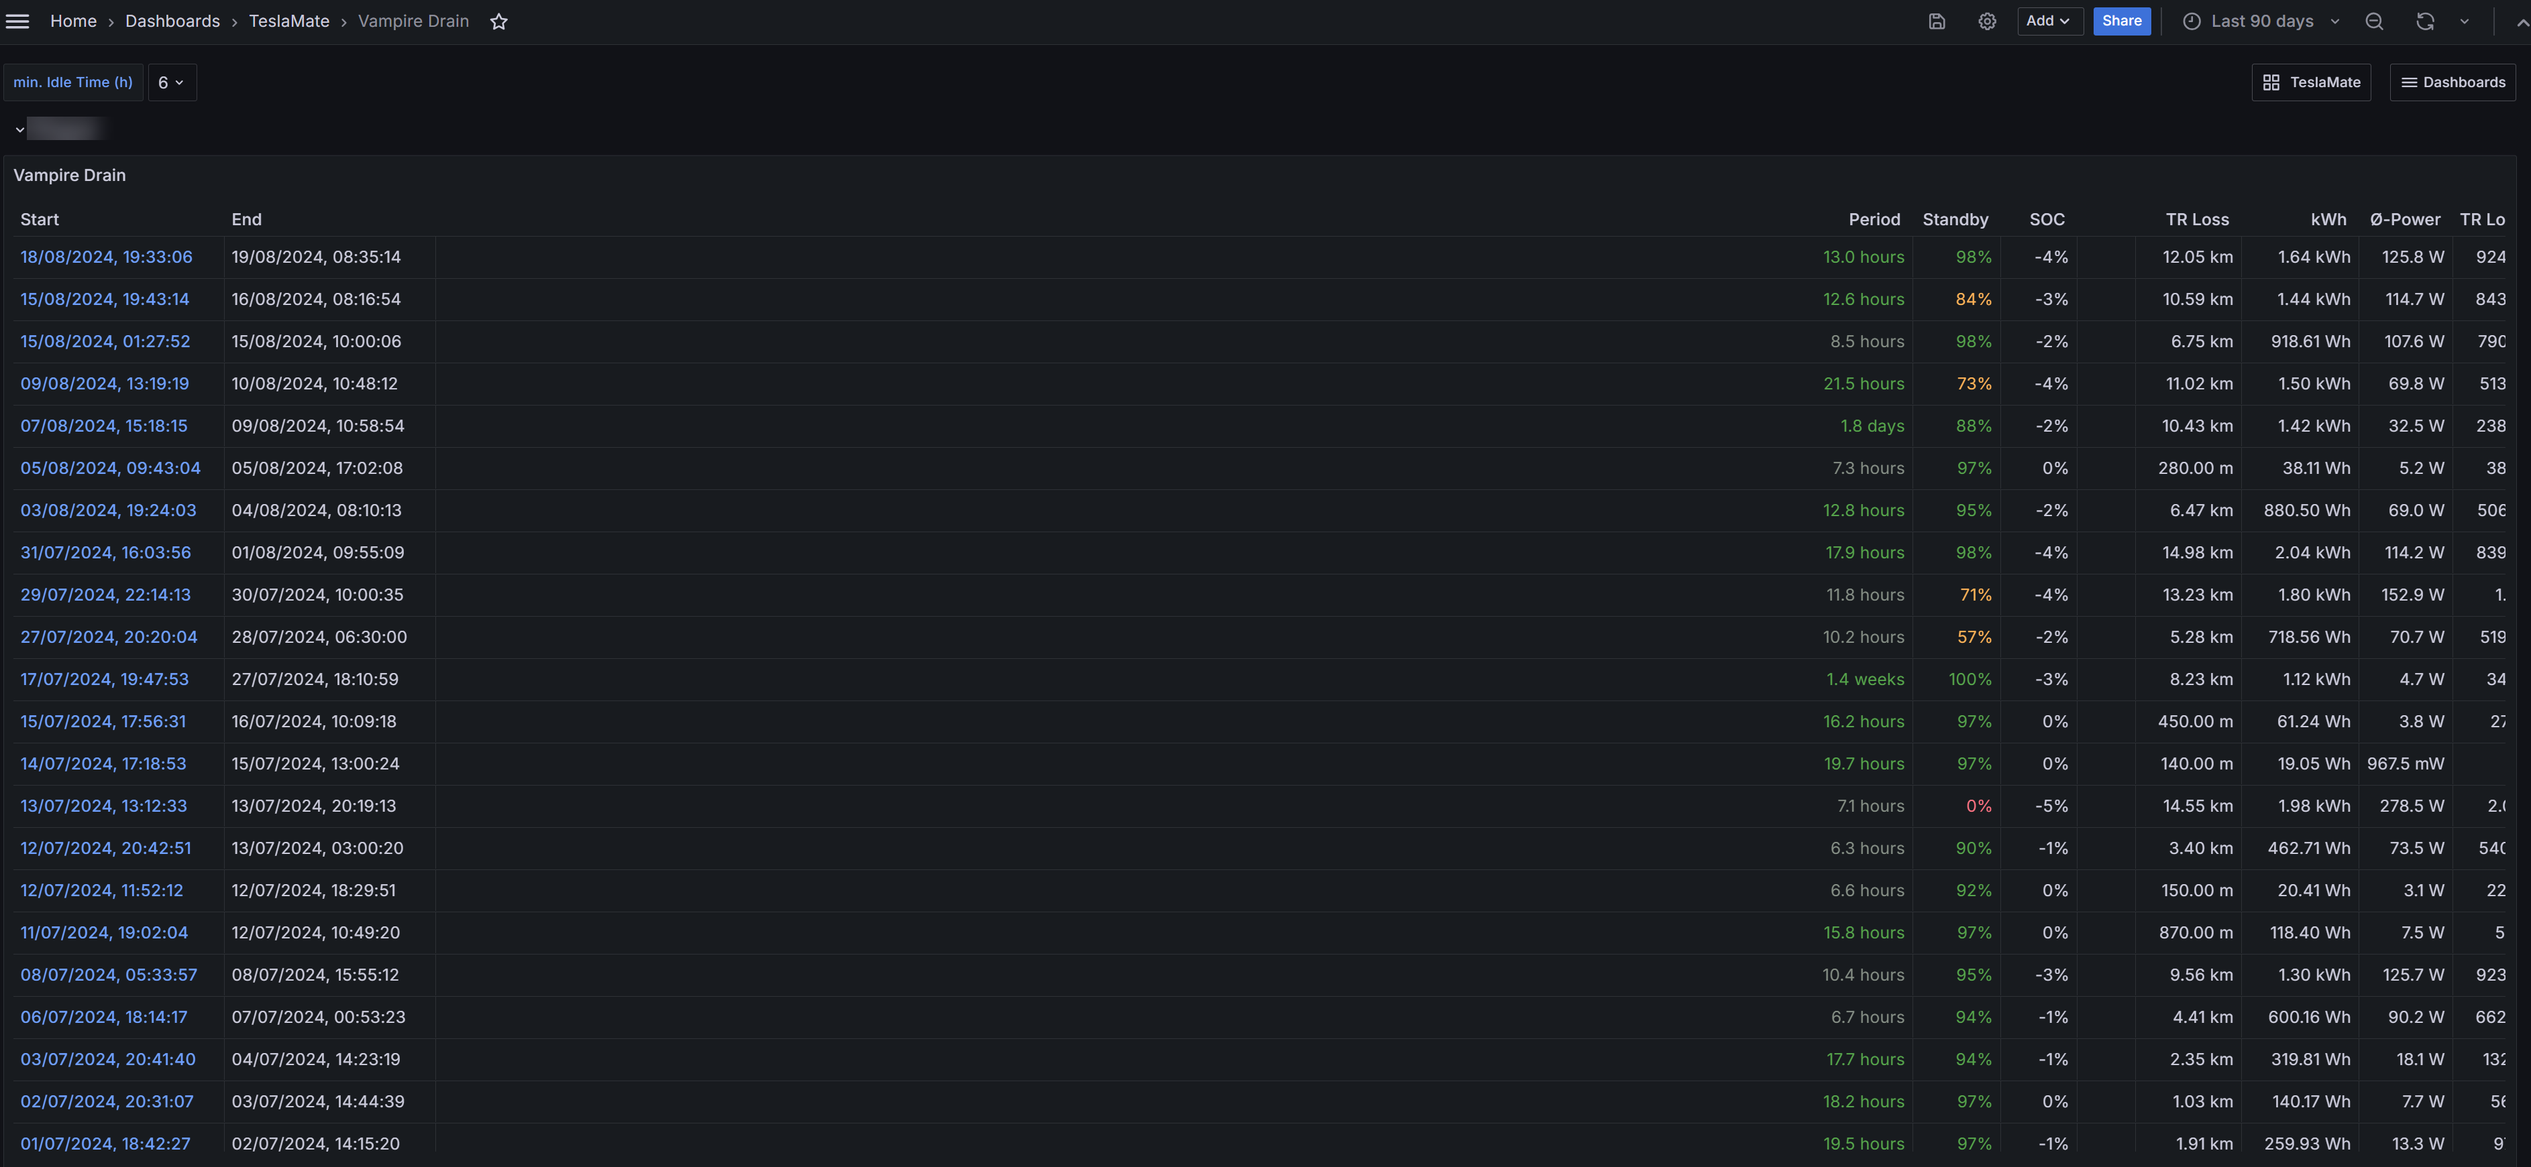
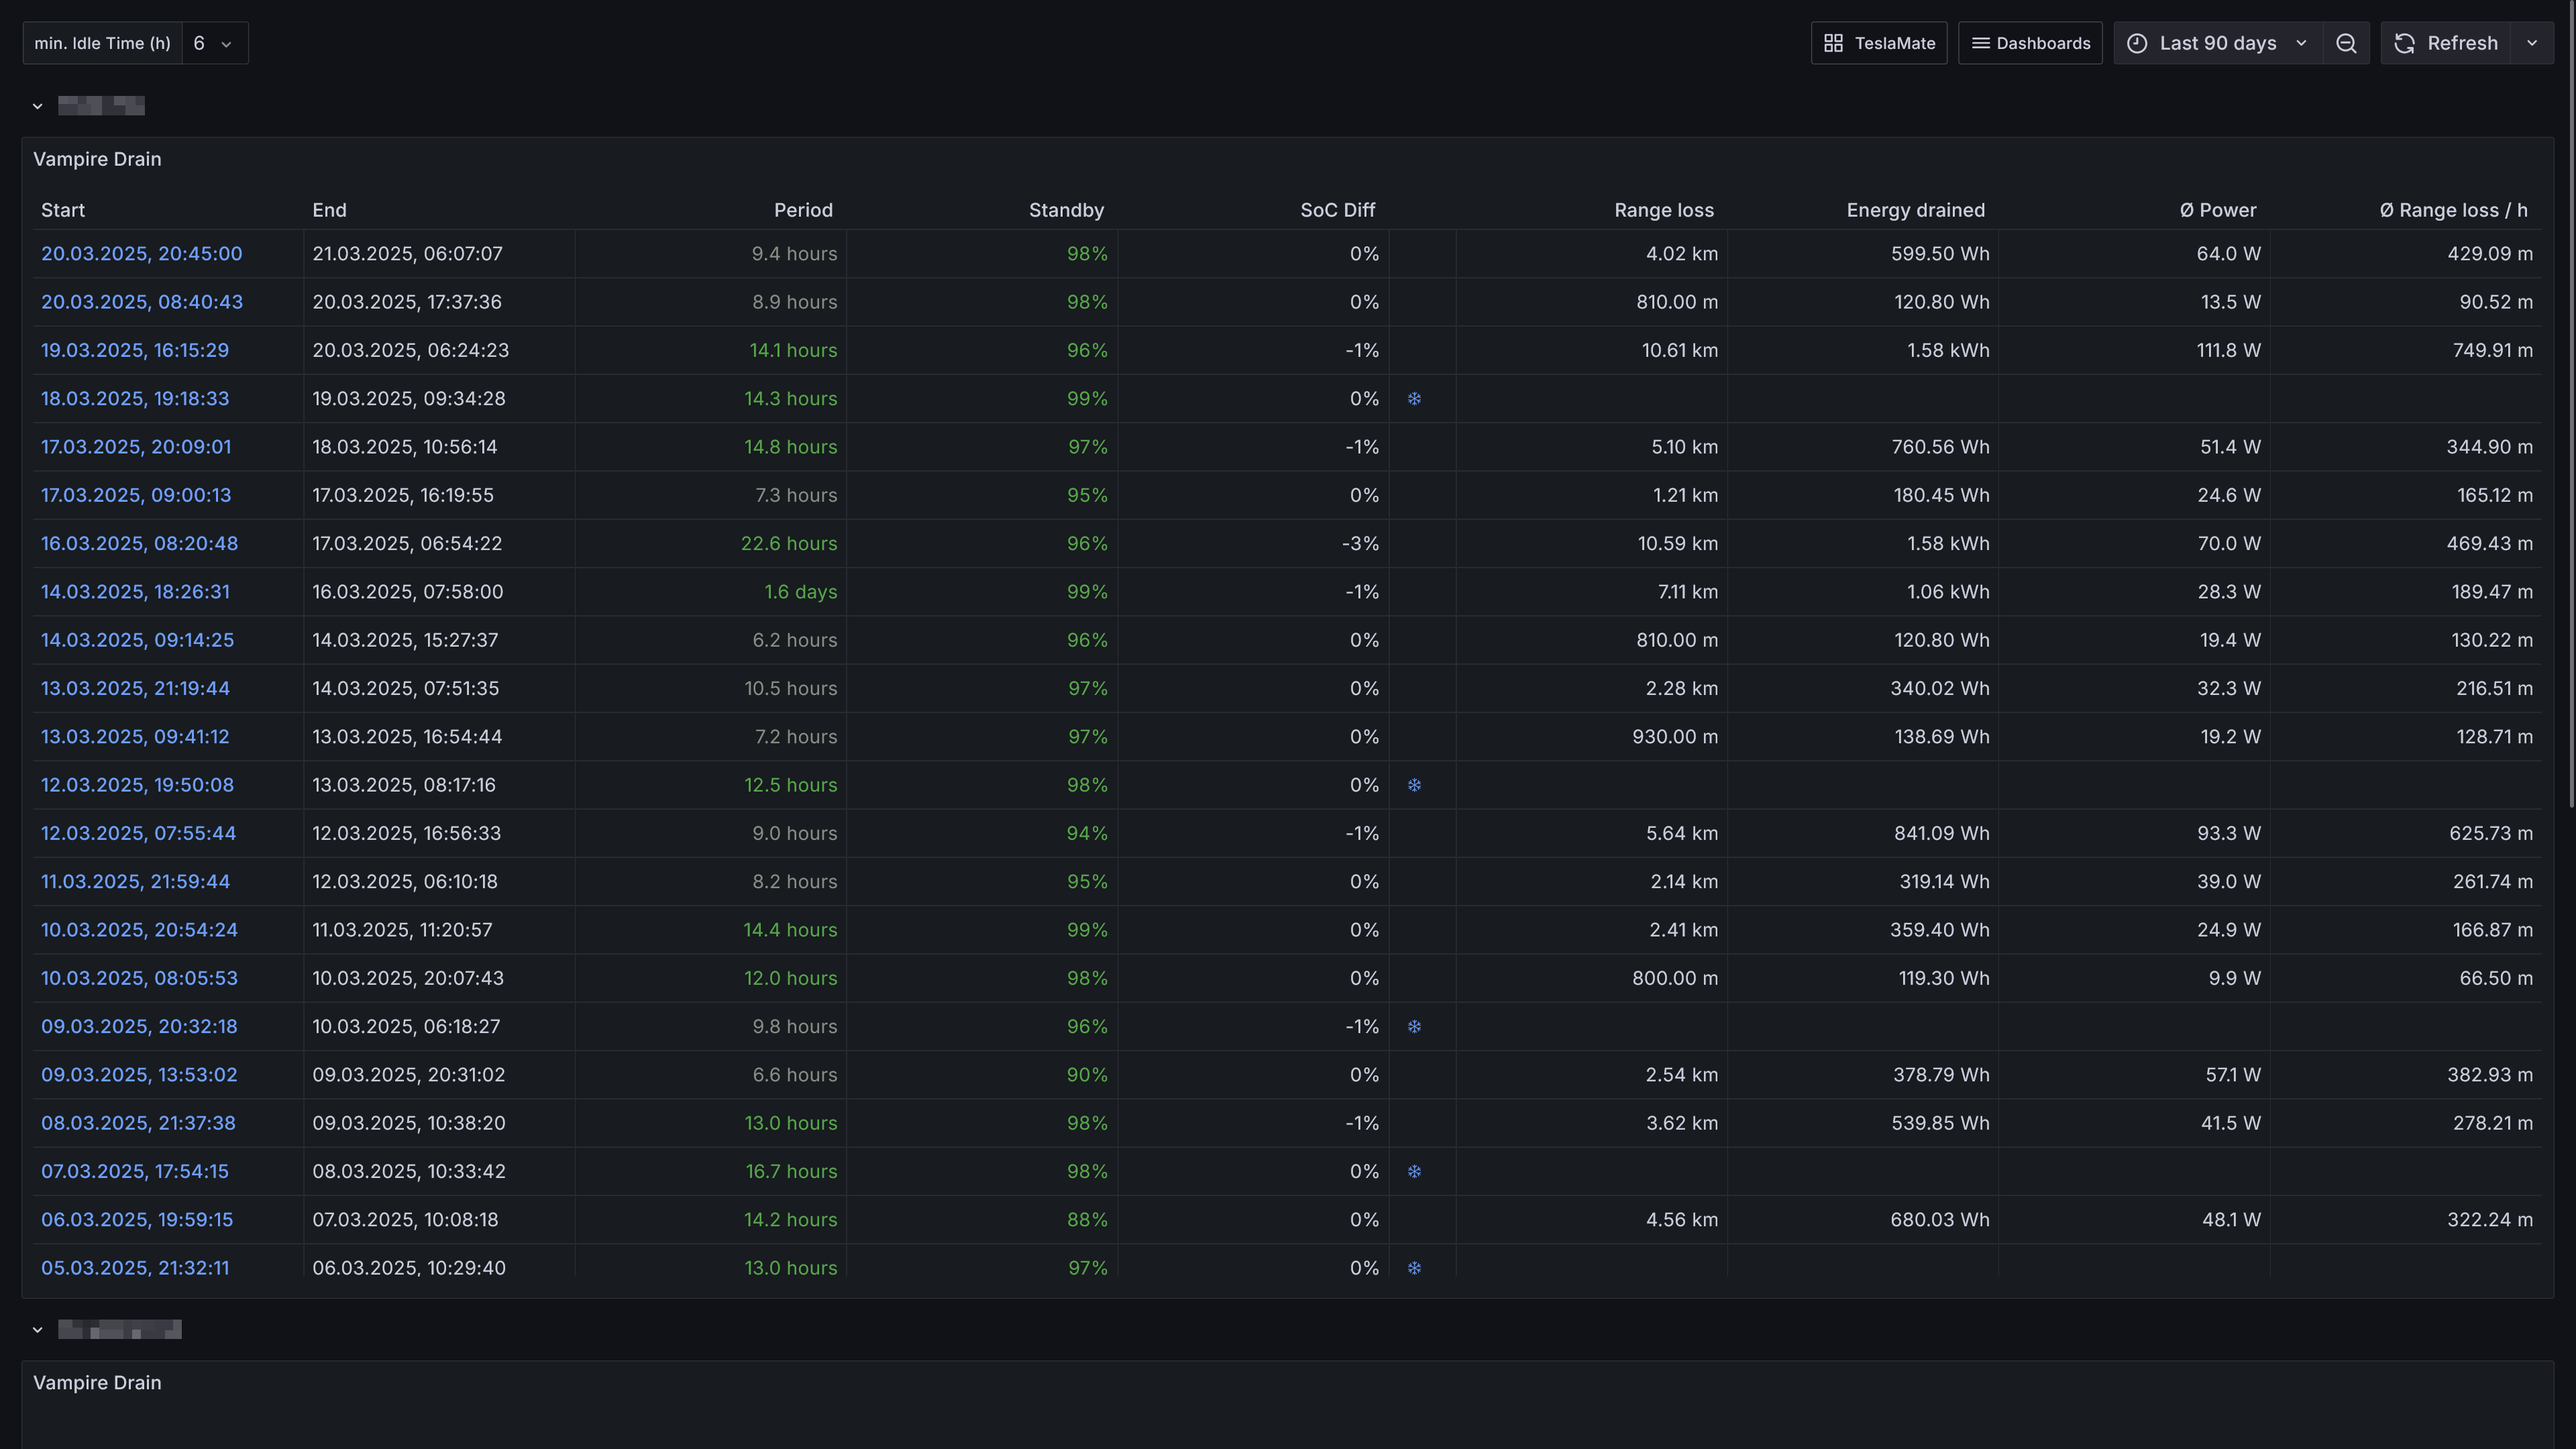
docs: fix and rearrange screenshot links (alphabetical) (#4580)
* fix and rearrange links (alphabetical) - add missing ones

* update screenshots

* add info about screenshots to contribution guideline.

diff --git a/README.md b/README.md
@@ -20,23 +20,6 @@ The documentation is available at [https://docs.teslamate.org](https://docs.tesl
 
 ## Features
 
-### Dashboards
-
-- [Drive and charging reports](https://docs.teslamate.org/docs/screenshots#charging-details)
-- [Driving efficiency report](https://docs.teslamate.org/docs/screenshots#efficiency)
-- [Consumption (net / gross)](https://docs.teslamate.org/docs/screenshots#efficiency)
-- [Charge energy added vs energy used](https://docs.teslamate.org/docs/screenshots#charges)
-- [Vampire drain](https://docs.teslamate.org/docs/screenshots#vampire-drain)
-- [Projected 100% range (battery degradation)](https://docs.teslamate.org/docs/screenshots#projected-range)
-- [Charging Stats](https://docs.teslamate.org/docs/screenshots#charging-stats)
-- [Drive Stats](https://docs.teslamate.org/docs/screenshots#drive-stats)
-- [History of installed updates](https://docs.teslamate.org/docs/screenshots#updates)
-- [See when your car was online or asleep](https://docs.teslamate.org/docs/screenshots#states)
-- [Lifetime driving map](https://docs.teslamate.org/docs/screenshots/#lifetime-driving-map)
-- [Visited addresses](https://docs.teslamate.org/docs/screenshots/#visited-addresses)
-- [Battery Health](https://docs.teslamate.org/docs/screenshots/#battery-health)
-- [Database Information](https://docs.teslamate.org/docs/screenshots/#database-information)
-
 ### General
 
 - High precision drive data recording
@@ -49,15 +32,41 @@ The documentation is available at [https://docs.teslamate.org](https://docs.tesl
 - Charge cost tracking
 - Import from TeslaFi and tesla-apiscraper
 
+### Dashboards
+
+Sample screenshots of bundled dashboards can be seen by clicking the links below.
+
+- [Battery Health](https://docs.teslamate.org/docs/screenshots/#battery-health)
+- [Charge Level](https://docs.teslamate.org/docs/screenshots/#charge-level)
+- [Charges (Energy added / used)](https://docs.teslamate.org/docs/screenshots#charges)
+- [Charge Details](https://docs.teslamate.org/docs/screenshots#charge-details)
+- [Charging Stats](https://docs.teslamate.org/docs/screenshots#charging-stats)
+- [Database Information](https://docs.teslamate.org/docs/screenshots/#database-information)
+- [Drive Stats](https://docs.teslamate.org/docs/screenshots#drive-stats)
+- [Drives (Distance / Energy consumed (net))](https://docs.teslamate.org/docs/screenshots/#drives)
+- [Drive Details](https://docs.teslamate.org/docs/screenshots/#drive-details)
+- [Efficiency (Consumption (net / gross))](https://docs.teslamate.org/docs/screenshots#efficiency)
+- [Locations (addresses)](https://docs.teslamate.org/docs/screenshots/#location-addresses)
+- [Mileage](https://docs.teslamate.org/docs/screenshots/#mileage)
+- [Overview](https://docs.teslamate.org/docs/screenshots/#overview)
+- [Projected Range (battery degradation)](https://docs.teslamate.org/docs/screenshots#projected-range)
+- [States (see when your car was online or asleep)](https://docs.teslamate.org/docs/screenshots#states)
+- [Statistics](https://docs.teslamate.org/docs/screenshots/#statistics)
+- [Timeline](https://docs.teslamate.org/docs/screenshots/#timeline)
+- [Trip](https://docs.teslamate.org/docs/screenshots/#trip)
+- [Updates (History of installed updates)](https://docs.teslamate.org/docs/screenshots#updates)
+- [Vampire Drain](https://docs.teslamate.org/docs/screenshots#vampire-drain)
+- [Visited (Lifetime driving map)](https://docs.teslamate.org/docs/screenshots/#visited-lifetime-driving-map)
+
 ## Screenshots
+
+Sneak peak into TeslaMate interface and bundled dashboards. See [the docs](https://docs.teslamate.org/docs/screenshots) for additional screenshots.
 
 ![Web Interface](/website/static/screenshots/web_interface.png)
 
 ![Drive Details](/website/static/screenshots/drive.png)
 
 ![Battery Health](/website/static/screenshots/battery-health.png)
-
-### [More Screenshots](https://docs.teslamate.org/docs/screenshots)
 
 ## Credits
 

diff --git a/website/docs/development.md b/website/docs/development.md
@@ -130,6 +130,8 @@ Access the Grafana at [http://localhost:3000](http://localhost:3000) and sign in
 
 Then edit the respective dashboard(s) locally. To export a dashboard hit the 'Save' button and select `Save JSON to file`. The final JSON file belongs in the directory `./grafana/dashboards/`. To apply the changes rebuild the image and start the container.
 
+When making larger changes to Grafana Dashboards please include updated screenshots (1920x1080 @ x2, Grafana running in Kiosk mode) in `./website/static/screenshots`. Ensure to blur sensitive information.
+
 ### Grafana VS Code Extension
 
 The Grafana VS Code extension allows you to open Grafana dashboards as JSON files in VS Code, and preview them live with data from a Grafana instance of your choice.
